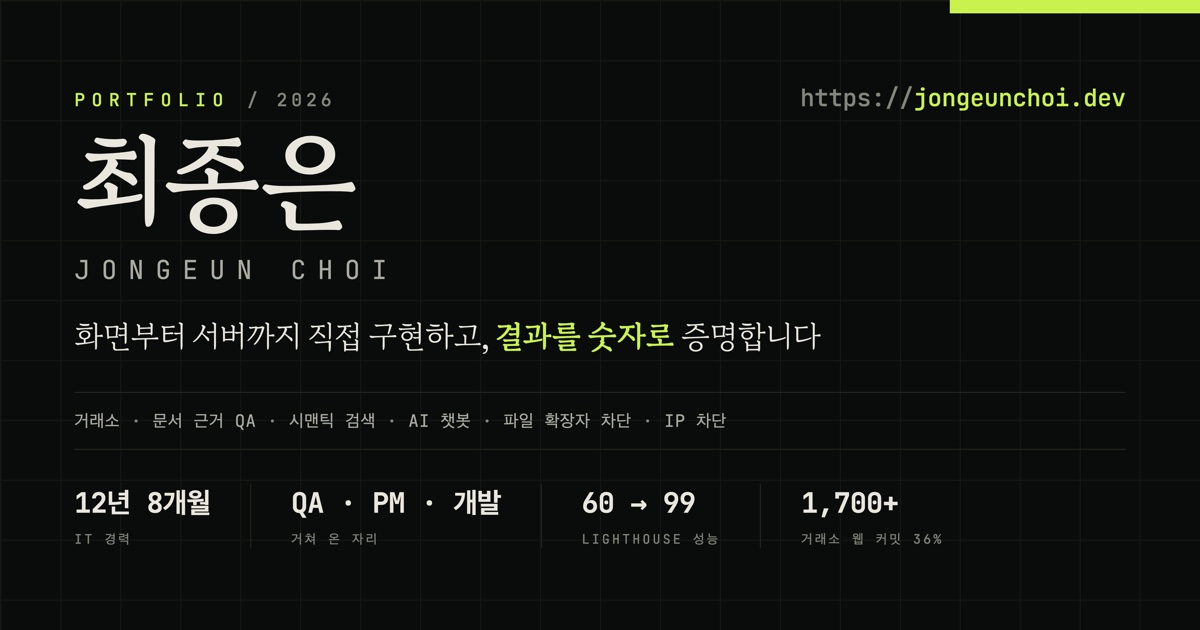
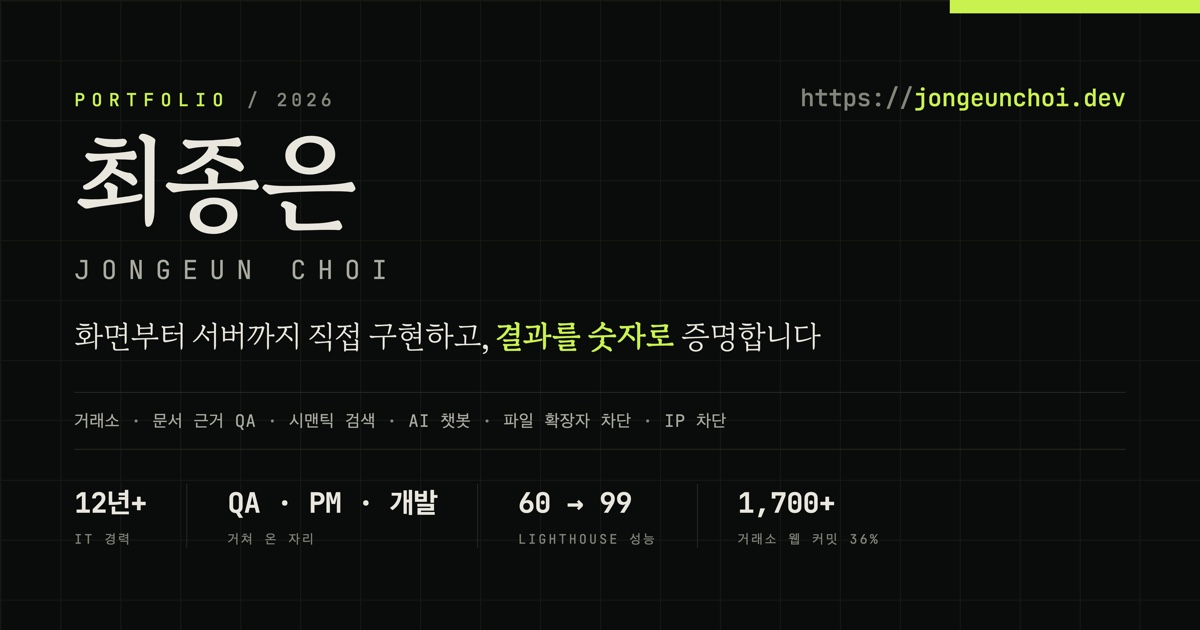
경력 기간을 재직 기간에서 계산하도록 바꾸고 표기 오류 정정
경력 숫자가 아홉 군데에 손으로 적혀 있었다. 매달 1일이면 그 아홉이 동시에 낡는데, 고치는
사람이 한 군데라도 놓치면 부분의 합이 총계와 어긋난다. 실제로 어긋나 있었다.

찾은 오류 세 가지

- "12.8년"은 어법도 산술도 틀렸다. 8개월은 0.67년이라 소수로는 12.7 이고, 12.8년은
  12년 9.6개월을 뜻한다. 개월 수를 소수점 뒤에 그대로 붙인 표기였다. 애초에 경력을 소수로
  말하는 관행이 없다. 큰 숫자는 "12년+"로 두고 정확한 값은 바로 아래 라벨이 맡는다.

- Tech PM 이 2년으로 적혀 있었다. 아키에이지 재직이 2012.11-2017.11 = 5년 1개월인데
  System QA 3년 + Tech PM 2년이면 5년 0개월이라 1개월이 비었다. 2년 1개월이 맞다.

- 위를 고치자 프론트엔드 7년 9개월이 드러났다. 7년 9개월 + 3년 + 2년 1개월 = 12년 10개월로
  총계(12년 8개월)를 2개월 넘긴다. 세 회사 재직 기간을 직접 더하면
  3년 1개월 + 3년 8개월 + 10개월 = 7년 7개월이고, 총계에서 QA·PM 을 뺀 값과도 일치한다.

이력서에서 부분의 합이 전체와 안 맞는 것은 그 숫자 하나의 문제로 끝나지 않는다.
"다른 숫자도 대충 적었나"를 부른다.

재직 기간을 진실원으로 둔다

이제 손으로 고치는 값은 재직 시작·종료 월 네 쌍과 아키에이지 내부 분할(QA 36개월)뿐이다.
총 경력, 프론트엔드 기간, 풀스택·파트 리딩 기간, 구성 막대의 폭, 스크린리더용 aria-label,
그리고 대표 숫자("N년+")까지 전부 여기서 파생된다.

막대 폭(flex 7.75/3/2)은 이미 옛 비율이었다. 숫자와 그림이 따로 낡던 자리라 함께 묶었다.
대표 숫자도 파생시켰다 - 고정해 두면 내년에 "12년+ / (13년 8개월)"처럼 큰 숫자와 바로 아래
라벨이 서로 어긋난다. 축소 표기라 거짓은 아니지만 부주의해 보인다.

마크업에는 계산 결과를 그대로 심어 둔다. 스크립트가 꺼져 있어도 배포 시점 기준으로는
정확하고, 시간이 지나면 스크립트가 켜진 쪽만 따라간다.

계산할 수 없는 자리는 표현을 바꾼다

메타 태그와 미리보기 카드 이미지, README 는 크롤러와 GitHub 가 정적 텍스트로 읽으므로
런타임 계산이 닿지 않는다. 이런 자리에는 만료되지 않는 표현을 쓴다 - "12년+"는 하한이라
시간이 지나도 거짓이 되지 않는다. 정확한 값은 계산 가능한 자리에만 둔다.

README 의 경력 구성처럼 정확한 값이 필요한 문서에는 기준일을 함께 적었다.

미리보기 카드도 다시 구웠다. 이미지가 바뀌었으므로 배포가 붙이는 내용 해시가 갱신되고,
이미 카드를 캐시한 메신저도 새 이미지를 다시 가져간다.

같은 방식으로 문서의 나머지 수치도 실측과 대조했다

경력 숫자를 고치면서 문서에 적힌 다른 수치도 전부 실행해 확인했다. 테스트 수는 전 프로젝트가
낡아 있었고, 두 문서가 서로 다른 값을 적고 있는 곳도 있었다.
[…]

diff --git a/intro/index.html b/intro/index.html
@@ -5,12 +5,12 @@
 <meta name="viewport" content="width=device-width, initial-scale=1">
 
 <title>최종은 (JONGEUN CHOI) - 풀스택 개발자 포트폴리오</title>
-<meta name="description" content="프론트엔드 파트를 리딩하며 웹 앱 백엔드를 아우르는 풀스택 개발자 최종은. IT 경력 12년 8개월, 검증(QA) 조율(PM) 구현(개발)을 모두 거친 개발 리더의 포트폴리오.">
+<meta name="description" content="프론트엔드 파트를 리딩하며 웹 앱 백엔드를 아우르는 풀스택 개발자 최종은. IT 경력 12년+, 검증(QA) 조율(PM) 구현(개발)을 모두 거친 개발 리더의 포트폴리오.">
 <meta name="author" content="최종은 (JONGEUN CHOI)">
 
 <meta property="og:type" content="website">
 <meta property="og:title" content="최종은 (JONGEUN CHOI) - 풀스택 개발자 포트폴리오">
-<meta property="og:description" content="프론트엔드 파트를 리딩하며 백엔드와 인프라까지 직접 구현합니다. IT 경력 12년 8개월, 검증(QA) 조율(PM) 구현(개발)을 모두 거친 개발 리더. 레거시 현대화로 Lighthouse 성능 60에서 99.">
+<meta property="og:description" content="프론트엔드 파트를 리딩하며 백엔드와 인프라까지 직접 구현합니다. IT 경력 12년+, 검증(QA) 조율(PM) 구현(개발)을 모두 거친 개발 리더. 레거시 현대화로 Lighthouse 성능 60에서 99.">
 <meta property="og:locale" content="ko_KR">
 <!-- 미리보기 카드. 페이지 안의 링크는 지금 호스트에서 조립하지만 이 값들만은 절대 URL 이어야
      한다 - 카드를 만드는 것은 브라우저가 아니라 외부 크롤러(메신저, 메일, SNS)이고, 그쪽에는
@@ -20,10 +20,10 @@
 <meta property="og:image:width" content="1200">
 <meta property="og:image:height" content="630">
 <meta property="og:image:type" content="image/jpeg">
-<meta property="og:image:alt" content="최종은 포트폴리오 - 라이브 데모 여섯 개와 12년 8개월 경력 요약">
+<meta property="og:image:alt" content="최종은 포트폴리오 - 라이브 데모 여섯 개와 12년+ 경력 요약">
 <meta name="twitter:card" content="summary_large_image">
 <meta name="twitter:title" content="최종은 (JONGEUN CHOI) - 풀스택 개발자 포트폴리오">
-<meta name="twitter:description" content="검증 조율 구현을 모두 거친 개발 리더. IT 경력 12년 8개월.">
+<meta name="twitter:description" content="검증 조율 구현을 모두 거친 개발 리더. IT 경력 12년+.">
 <meta name="twitter:image" content="https://jongeunchoi.dev/img/og-cover.jpg">
 <link rel="canonical" href="https://jongeunchoi.dev/">
 <meta name="theme-color" content="#0a0c0b">
@@ -433,8 +433,11 @@
 
         <dl class="stats reveal" aria-label="핵심 지표">
           <div class="stat">
-            <dd class="num"><span data-count="12.8" data-decimals="1">12.8</span><span class="unit">년</span></dd>
-            <dt class="lab">IT 총 경력 (12년 8개월)</dt>
+            <!-- "12.8년" 으로 적었다가 고쳤다. 8개월은 0.67년이라 소수로는 12.7 이고,
+                 12.8년은 12년 9.6개월을 뜻한다 - 개월 수를 소수점 뒤에 그대로 붙인 표기였다.
+                 애초에 경력은 소수로 말하지 않는다. 큰 숫자는 12년+ 로 두고 정확한 값은 라벨에 적는다. -->
+            <dd class="num"><span data-count="12" data-career-years>12</span><span class="unit">년+</span></dd>
+            <dt class="lab">IT 총 경력 (<span data-career="total">12년 8개월</span>)</dt>
           </div>
           <div class="stat">
             <dd class="num"><span data-count="1700" data-suffix="+">1,700+</span></dd>
@@ -458,24 +461,24 @@
           <div>
             <h2 class="sec reveal" id="about-h">검증하고, 조율하고, <span style="color:var(--acid);font-style:italic">직접 만듭니다</span></h2>
             <p class="lead reveal">품질을 <span class="hl">검증(QA)</span>하고 일정을 <span class="hl">조율(PM)</span>하며 제품을 <span class="hl">구현(개발)</span>하는 세 축을 모두 거쳤습니다. 그래서 만들기 전에 어떻게 검증할지와 무엇을 먼저 낼지를 함께 정합니다.</p>
-            <p class="body reveal">System QA로 대규모 라이브 서비스의 품질과 인프라를 검증했고, Tech PM으로 글로벌 고객사의 개발 일정을 조율했습니다. 이후 약 7년 9개월간 프론트엔드를 중심으로 웹 앱 백엔드를 관통해 구현하며, 지금은 개발 조직 안에서 프론트엔드 파트를 리딩하고 있습니다. 아래 여섯 데모는 그 방식을 코드로 옮긴 것으로, 설계 근거와 하지 않은 선택의 이유까지 각 README 에 남겼습니다.</p>
+            <p class="body reveal">System QA로 대규모 라이브 서비스의 품질과 인프라를 검증했고, Tech PM으로 글로벌 고객사의 개발 일정을 조율했습니다. 이후 <span data-career="fe">약 7년 7개월</span>간 프론트엔드를 중심으로 웹 앱 백엔드를 관통해 구현하며, 지금은 개발 조직 안에서 프론트엔드 파트를 리딩하고 있습니다. 아래 여섯 데모는 그 방식을 코드로 옮긴 것으로, 설계 근거와 하지 않은 선택의 이유까지 각 README 에 남겼습니다.</p>
             <div class="contact-inline reveal">
               <a href="mailto:vkdnj20088@gmail.com">vkdnj20088@gmail.com</a>
             </div>
           </div>
-          <div class="compo reveal" role="img" aria-label="경력 구성: 프론트엔드 약 7년 9개월(그중 풀스택 개발 10개월, 프론트엔드 파트 리딩 10개월), System QA 3년, Tech PM 2년">
-            <p class="t">경력 구성 / 12년 8개월</p>
+          <div class="compo reveal" role="img" aria-label="경력 구성: 프론트엔드 약 7년 7개월(그중 풀스택 개발 10개월, 프론트엔드 파트 리딩 10개월), System QA 3년, Tech PM 2년 1개월">
+            <p class="t">경력 구성 / <span data-career="total">12년 8개월</span></p>
             <div class="bar" aria-hidden="true">
               <i class="fe"></i><i class="qa"></i><i class="pm"></i>
             </div>
             <ul>
-              <li><span class="sw fe" aria-hidden="true"></span>프론트엔드 개발 <b>약 7년 9개월</b></li>
-              <!-- 현재 회사(2025.10~) 기간이라 위 7년 9개월 "안"에 있다. 별도 항목으로 세우면
+              <li><span class="sw fe" aria-hidden="true"></span>프론트엔드 개발 <b data-career="fe">약 7년 7개월</b></li>
+              <!-- 현재 회사(2025.10~) 기간이라 위 7년 7개월 "안"에 있다. 별도 항목으로 세우면
                    총 12년 8개월과 어긋나 중복 계상으로 읽히므로 하위에 "그중"으로 붙인다. -->
-              <li class="sub">그중 풀스택 개발 <b>10개월</b></li>
-              <li class="sub">그중 프론트엔드 파트 리딩 <b>10개월</b></li>
-              <li><span class="sw qa" aria-hidden="true"></span>System QA <b>3년</b></li>
-              <li><span class="sw pm" aria-hidden="true"></span>Tech PM <b>2년</b></li>
+              <li class="sub">그중 풀스택 개발 <b data-career="fullstack">10개월</b></li>
+              <li class="sub">그중 프론트엔드 파트 리딩 <b data-career="lead">10개월</b></li>
+              <li><span class="sw qa" aria-hidden="true"></span>System QA <b data-career="qa">3년</b></li>
+              <li><span class="sw pm" aria-hidden="true"></span>Tech PM <b data-career="pm">2년 1개월</b></li>
             </ul>
           </div>
         </div>
@@ -719,7 +722,7 @@
               <span class="co">아키에이지 (엑스엘게임즈 - 카카오게임즈)</span>
               <span class="tl-period">2012.11 - 2017.11 · 5년 1개월</span>
             </div>
-            <p class="tl-role">System QA (3년)<span class="sep">&#8594;</span>Tech PM (2년)</p>
+            <p class="tl-role">System QA (3년)<span class="sep">&#8594;</span>Tech PM (2년 1개월)</p>
             <p class="tl-desc">최고 동시접속 20만, 글로벌 누적 2,000만 가입 규모의 PC MMORPG 라이브 서비스. DB Log 인증 서버 등 인프라를 테스트하고 각 팀 산출물을 검수한 뒤 직접 빌드 배포했습니다. Tech PM 전향 후에는 일본 대만 미국 러시아 고객사를 대응하며 현지화 개발 일정을 조율했습니다.</p>
             <div class="tl-metrics">
               <span class="badge">최고 동시접속 <b>20만</b></span>
@@ -895,6 +898,81 @@
         }, { threshold: 0.5 });
         counters.forEach(function (el) { co.observe(el); });
       }
+    })();
+
+    /* 경력 기간은 매달 바뀐다 - 재직 기간에서 계산한다.
+     *
+     * 손으로 적으면 다음 달 1일에 아홉 군데가 동시에 틀린다(총 경력, 프론트엔드, 풀스택,
+     * 파트 리딩, 막대 폭 세 개, aria-label, 그리고 그 값들을 참조하는 주석). 실제로 한 번
+     * 어긋났다 - 프론트엔드를 7년 9개월로 적어 두는 바람에 부분 합이 총계보다 2개월 많았다.
+     * 이력서에서 부분의 합이 전체와 안 맞는 것은 "다른 숫자도 대충 적었나"를 부른다.
+     *
+     * 고치는 값은 재직 시작/종료 월뿐이고, 나머지는 전부 여기서 파생된다.
+     * 마크업에는 계산 결과를 그대로 심어 두어 스크립트가 꺼져 있어도 값이 보인다(이 블록은
+     * 덮어쓰기만 한다). 그래서 배포 시점 기준으로는 JS 없이도 정확하고, 시간이 지나면
+     * JS 켜진 쪽만 따라간다. */
+    (function () {
+      // [시작, 끝]. 끝이 null 이면 재직 중. 시작월과 끝월을 모두 세는 포함 계산이다
+      // (2012-11 ~ 2017-11 = 61개월). 이력서 관행이 그렇고, 각 회사 재직기간 표기와도 맞는다.
+      var JOBS = {
+        archeage:   ['2012-11', '2017-11'],
+        dreamspoon: ['2018-04', '2021-04'],
+        twinkple:   ['2021-04', '2024-11'],
+        pravang:    ['2025-10', null]
+      };
+      // 아키에이지 61개월의 내부 분할. System QA 로 시작해 Tech PM 으로 전향했다.
+      var QA_MONTHS = 36;
+
+      var now = new Date();
+      function months(span) {
+        var a = span[0].split('-');
+        var b = span[1] ? span[1].split('-') : [now.getFullYear(), now.getMonth() + 1];
+        return (b[0] - a[0]) * 12 + (b[1] - a[1]) + 1;
+      }
+      function ko(n) {
+        var y = Math.floor(n / 12), m = n % 12;
+        return (y ? y + '년' : '') + (y && m ? ' ' : '') + (m ? m + '개월' : '');
+      }
+
+      var pravang  = months(JOBS.pravang);
+      var fe       = months(JOBS.dreamspoon) + months(JOBS.twinkple) + pravang;
+      var archeage = months(JOBS.archeage);
+      var pm       = archeage - QA_MONTHS;
+
+      // 풀스택과 파트 리딩은 둘 다 현재 회사 재직 기간과 같다. 달라지면 여기만 고치면 된다.
+      var TEXT = {
+        total: ko(archeage + fe), fe: '약 ' + ko(fe),
+        qa: ko(QA_MONTHS), pm: ko(pm),
+        fullstack: ko(pravang), lead: ko(pravang)
+      };
+      Array.prototype.forEach.call(document.querySelectorAll('[data-career]'), function (el) {
+        var v = TEXT[el.getAttribute('data-career')];
+        if (v) el.textContent = v;
+      });
+
+      // 대표 숫자(12년+)도 파생시킨다. 고정해 두면 내년에 "12년+ / (13년 8개월)" 처럼
+      // 큰 숫자와 바로 아래 라벨이 서로 어긋난다 - 축소 표기라 거짓은 아니지만 부주의해 보인다.
+      // 카운트업은 data-count 를 교차 시점에 늦게 읽으므로 여기서 바꿔도 늦지 않다. 다만 위
+      // 블록이 이미 표시값을 0 으로 되돌렸을 수 있어(비-reduce 경로), 그때는 건드리지 않는다.
+      var yearsEl = document.querySelector('[data-career-years]');
+      if (yearsEl) {
+        var yrs = String(Math.floor((archeage + fe) / 12));
+        yearsEl.setAttribute('data-count', yrs);
+        if (yearsEl.textContent.trim() !== '0') yearsEl.textContent = yrs;
+      }
+
+      // 막대 폭도 같은 값에서 만든다. 고정 flex 값을 두면 숫자와 그림이 따로 낡는다.
+      [['fe', fe], ['qa', QA_MONTHS], ['pm', pm]].forEach(function (pair) {
+        var i = document.querySelector('.compo .bar .' + pair[0]);
+        if (i) i.style.flex = String(pair[1]);
+      });
+
+      // 막대는 aria-hidden 이라 스크린리더는 이 문장만 듣는다 - 화면과 어긋나면 안 된다.
+      var compo = document.querySelector('.compo[aria-label]');
+      if (compo) compo.setAttribute('aria-label',
+        '경력 구성: 프론트엔드 ' + TEXT.fe + '(그중 풀스택 개발 ' + TEXT.fullstack +
+        ', 프론트엔드 파트 리딩 ' + TEXT.lead + '), System QA ' + TEXT.qa +
+        ', Tech PM ' + TEXT.pm);
     })();
   </script>
 </body>

diff --git a/README.md b/README.md
@@ -7,23 +7,23 @@
 ## 개발자 소개
 
 프론트엔드 파트를 리딩하며 웹 앱 백엔드를 아우르는 풀스택 개발자 최종은입니다.
-검증(QA)과 조율(PM), 구현(개발)을 모두 거친 개발 리더로, IT 경력 12년 8개월 동안
+검증(QA)과 조율(PM), 구현(개발)을 모두 거친 개발 리더로, IT 경력 12년 넘게
 프론트엔드를 중심으로 화면부터 서버, 인프라와 보안까지 하나의 흐름으로 다뤄 왔습니다.
 
-- 경력 구성: 프론트엔드 개발 약 7년 9개월(그중 풀스택 개발 10개월 · 프론트엔드 파트 리딩 10개월), System QA 3년, Tech PM 2년
+- 경력 구성(2026-07 기준): 프론트엔드 개발 약 7년 7개월(그중 풀스택 개발 10개월 · 프론트엔드 파트 리딩 10개월), System QA 3년, Tech PM 2년 1개월
 - 대표 성과: 거래소 웹 개인 커밋 1,700+ (약 36%), Brotli 전송량 최대 86% 절감, Lighthouse 성능 60 -> 99 / SEO 80 -> 100, 글로벌 앱 다운로드 50만+
 - 인트로 페이지: **[jongeunchoi.dev](https://jongeunchoi.dev/)** - 경력, 기술 스택, 대표 프로젝트와 아래 데모를 한 화면에 모은 랜딩
 
-아래 코드 데모들이 이 포트폴리오의 코드 근거입니다(3개 폴더, 5개 데모).
+아래 코드 데모들이 이 포트폴리오의 코드 근거입니다(3개 폴더, 6개 데모).
 
 | 폴더 | 데모 | 스택 | 무게중심 | 라이브 | 테스트 |
 |------|------|------|----------|--------|--------|
-| `portfolio_react_next` | LLM 챗봇 목업 | Next 15 / React 19 / TS, pnpm + Turborepo | 프론트엔드, UX, 스트리밍, 접근성 | [chat](https://chat.jongeunchoi.dev/) | 단위 73 + e2e 3 |
-| `portfolio_react_next/apps/docqa` | 문서 근거 QA + 시맨틱 검색 (JC DocuQA) | Next 15 / React 19 / TS, 결정적 TF-IDF 색인 | 리트리벌, 추출형 MRC, 근거·인용, 품질 계측 | [docqa](https://docqa.jongeunchoi.dev/) | 단위 45 |
-| `portfolio_exchange_next` | 가상자산 거래소 목업 | Next 16 / React 19 / TS, lightweight-charts | 매칭엔진, 실시간, 성능, 멀티탭 | [exchange](https://exchange.jongeunchoi.dev/) | 단위 48(RTL 포함) |
-| `portfolio_jquery_spring` | 파일 확장자 차단 + IP 접근 제어 | Spring Boot 4.1 / Java 21, jQuery 4 + TS/webpack | 백엔드, 동시성, 보안, 관측성, 배포 | [file](https://file.jongeunchoi.dev/) · [ip](https://ip.jongeunchoi.dev/) | 백엔드 138 + 통합 4종 + 프론트 8 |
+| `portfolio_react_next` | LLM 챗봇 목업 | Next 15 / React 19 / TS, pnpm + Turborepo | 프론트엔드, UX, 스트리밍, 접근성 | [chat](https://chat.jongeunchoi.dev/) | 단위 101 + e2e 4 |
+| `portfolio_react_next/apps/docqa` | 문서 근거 QA + 시맨틱 검색 (JC DocuQA) | Next 15 / React 19 / TS, 결정적 TF-IDF 색인 | 리트리벌, 추출형 MRC, 근거·인용, 품질 계측 | [docqa](https://docqa.jongeunchoi.dev/) | 단위 51 |
+| `portfolio_exchange_next` | 가상자산 거래소 목업 | Next 16 / React 19 / TS, lightweight-charts | 매칭엔진, 실시간, 성능, 멀티탭 | [exchange](https://exchange.jongeunchoi.dev/) | 단위 54(RTL 포함) |
+| `portfolio_jquery_spring` | 파일 확장자 차단 + IP 접근 제어 | Spring Boot 4.1 / Java 21, jQuery 4 + TS/webpack | 백엔드, 동시성, 보안, 관측성, 배포 | [file](https://file.jongeunchoi.dev/) · [ip](https://ip.jongeunchoi.dev/) | 백엔드 146 + 통합 5종 + 프론트 18 |
 
-다섯 데모가 한 대의 EC2 에 서브도메인으로 나뉘어 삽니다(인트로는 apex). 각 폴더는 독립적으로 빌드, 실행, 배포됩니다. 상세 설계와 단계별 기록, 각 기능의 "무엇을 왜" 는 각 폴더의 README 에 절 단위로 있습니다. 인트로의 데모 링크는 주소를 적어 두지 않고 **지금 페이지의 호스트에서 조립**합니다 - 도메인이면 서브도메인을, IP 면 포트를 만들어 붙이므로 어느 쪽으로 접속해도 맞고 서버가 바뀌어도 고칠 곳이 없습니다(로컬에서는 각 카드의 개발 포트를 씁니다).
+여섯 데모가 한 대의 EC2 에 삽니다(인트로는 apex, 데모는 서브도메인 다섯 - 문서 QA 와 시맨틱 검색이 한 앱의 두 화면입니다). 각 폴더는 독립적으로 빌드, 실행, 배포됩니다. 상세 설계와 단계별 기록, 각 기능의 "무엇을 왜" 는 각 폴더의 README 에 절 단위로 있습니다. 인트로의 데모 링크는 주소를 적어 두지 않고 **지금 페이지의 호스트에서 조립**합니다 - 도메인이면 서브도메인을, IP 면 포트를 만들어 붙이므로 어느 쪽으로 접속해도 맞고 서버가 바뀌어도 고칠 곳이 없습니다(로컬에서는 각 카드의 개발 포트를 씁니다).
 
 ## 화면
 
@@ -117,7 +117,7 @@ cd portfolio_jquery_spring
 
 ---
 
-## 역량 축 - 다섯 데모를 관통하는 설계 서사
+## 역량 축 - 여섯 데모를 관통하는 설계 서사
 
 개별 기능을 넘어, 여러 데모를 **하나의 표준으로 다스린다**는 관점이 이 포트폴리오의 축입니다.
 각 항목의 코드 근거는 해당 앱 README 의 해당 절에 있습니다.

diff --git a/infra/README.md b/infra/README.md
@@ -1,6 +1,7 @@
-# infra - 통합 EC2 배포 (인트로 + 데모 5개)
+# infra - 통합 EC2 배포 (인트로 + 데모 서브도메인 5개)
 
-한 대의 EC2 에서 인트로 랜딩과 다섯 데모를 함께 서빙하기 위한 코드화된 인프라입니다.
+한 대의 EC2 에서 인트로 랜딩과 데모를 함께 서빙하기 위한 코드화된 인프라입니다.
+화면은 여섯이지만 서브도메인은 다섯입니다 - 문서 QA 와 시맨틱 검색이 한 앱(docqa)의 두 라우트입니다.
 nginx 설정, systemd 유닛, 프로비저닝, 배포 파이프라인을 전부 버전관리 파일로 둡니다.
 
 ## 구성
@@ -84,7 +85,8 @@ SNI 가 있는 요청은 도메인 블록이, 없는 요청(IP 리터럴 접속)
 ### 도메인 붙이기 (최초 1회)
 
 ```bash
-# 1) DNS: A 레코드 다섯 개를 서버 공인 IP 로 (apex, www, exchange, chat, docqa, guard)
+# 1) DNS: A 레코드 아홉 개를 서버 공인 IP 로
+#    (apex, www, exchange, chat, docqa, search, guard, file, ip - 인증서 SAN 과 같은 목록)
 # 2) 발급 + 활성화 (DNS 전파 확인 -> 80 도달 확인 -> dry-run -> 발급 -> 검증까지 한 번에)
 cd ~/portfolio && git pull
 sudo -E DOMAIN=example.dev LE_EMAIL=you@example.com bash infra/issue-cert-domain.sh

diff --git a/portfolio_jquery_spring/README.md b/portfolio_jquery_spring/README.md
@@ -17,7 +17,7 @@
 | **Frontend** | jQuery 4.0 + TypeScript (webpack 번들), REST/Ajax (SSR 아님) |
 | **DB** | 로컬/테스트 H2(무설정) / 프로덕션 MySQL 8 |
 | **Deploy** | AWS EC2 + Nginx(리버스 프록시) + systemd, HTTPS(Let's Encrypt) |
-| **테스트** | 단위/슬라이스 69개(H2, 무설정) + 통합 6개(Testcontainers 실제 MySQL 8, CI 실행) |
+| **테스트** | 단위/슬라이스 146개(H2, 무설정) + 통합 5종 21개(Testcontainers 실제 MySQL 8, CI 실행) |
 
 ---
 
